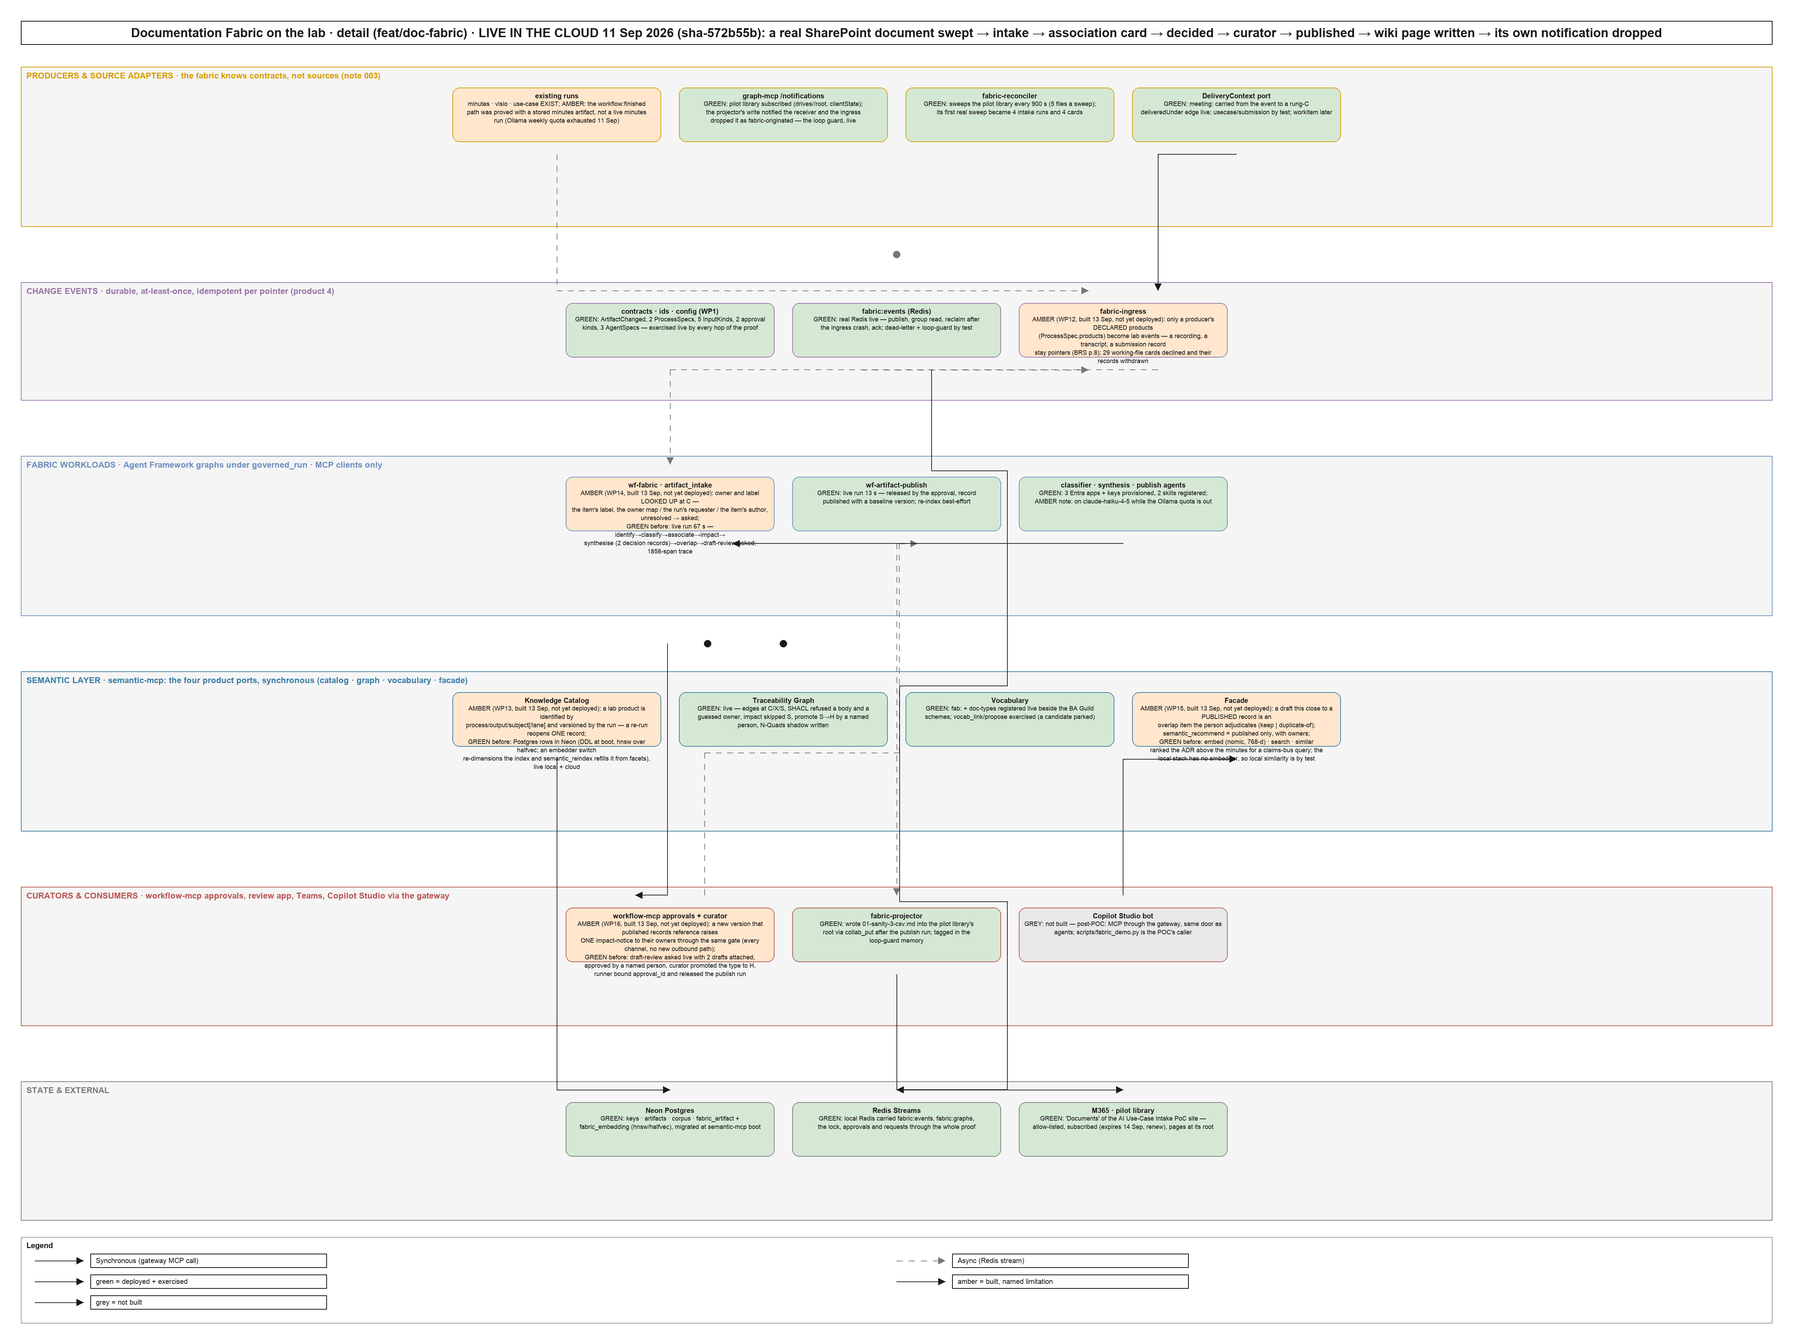
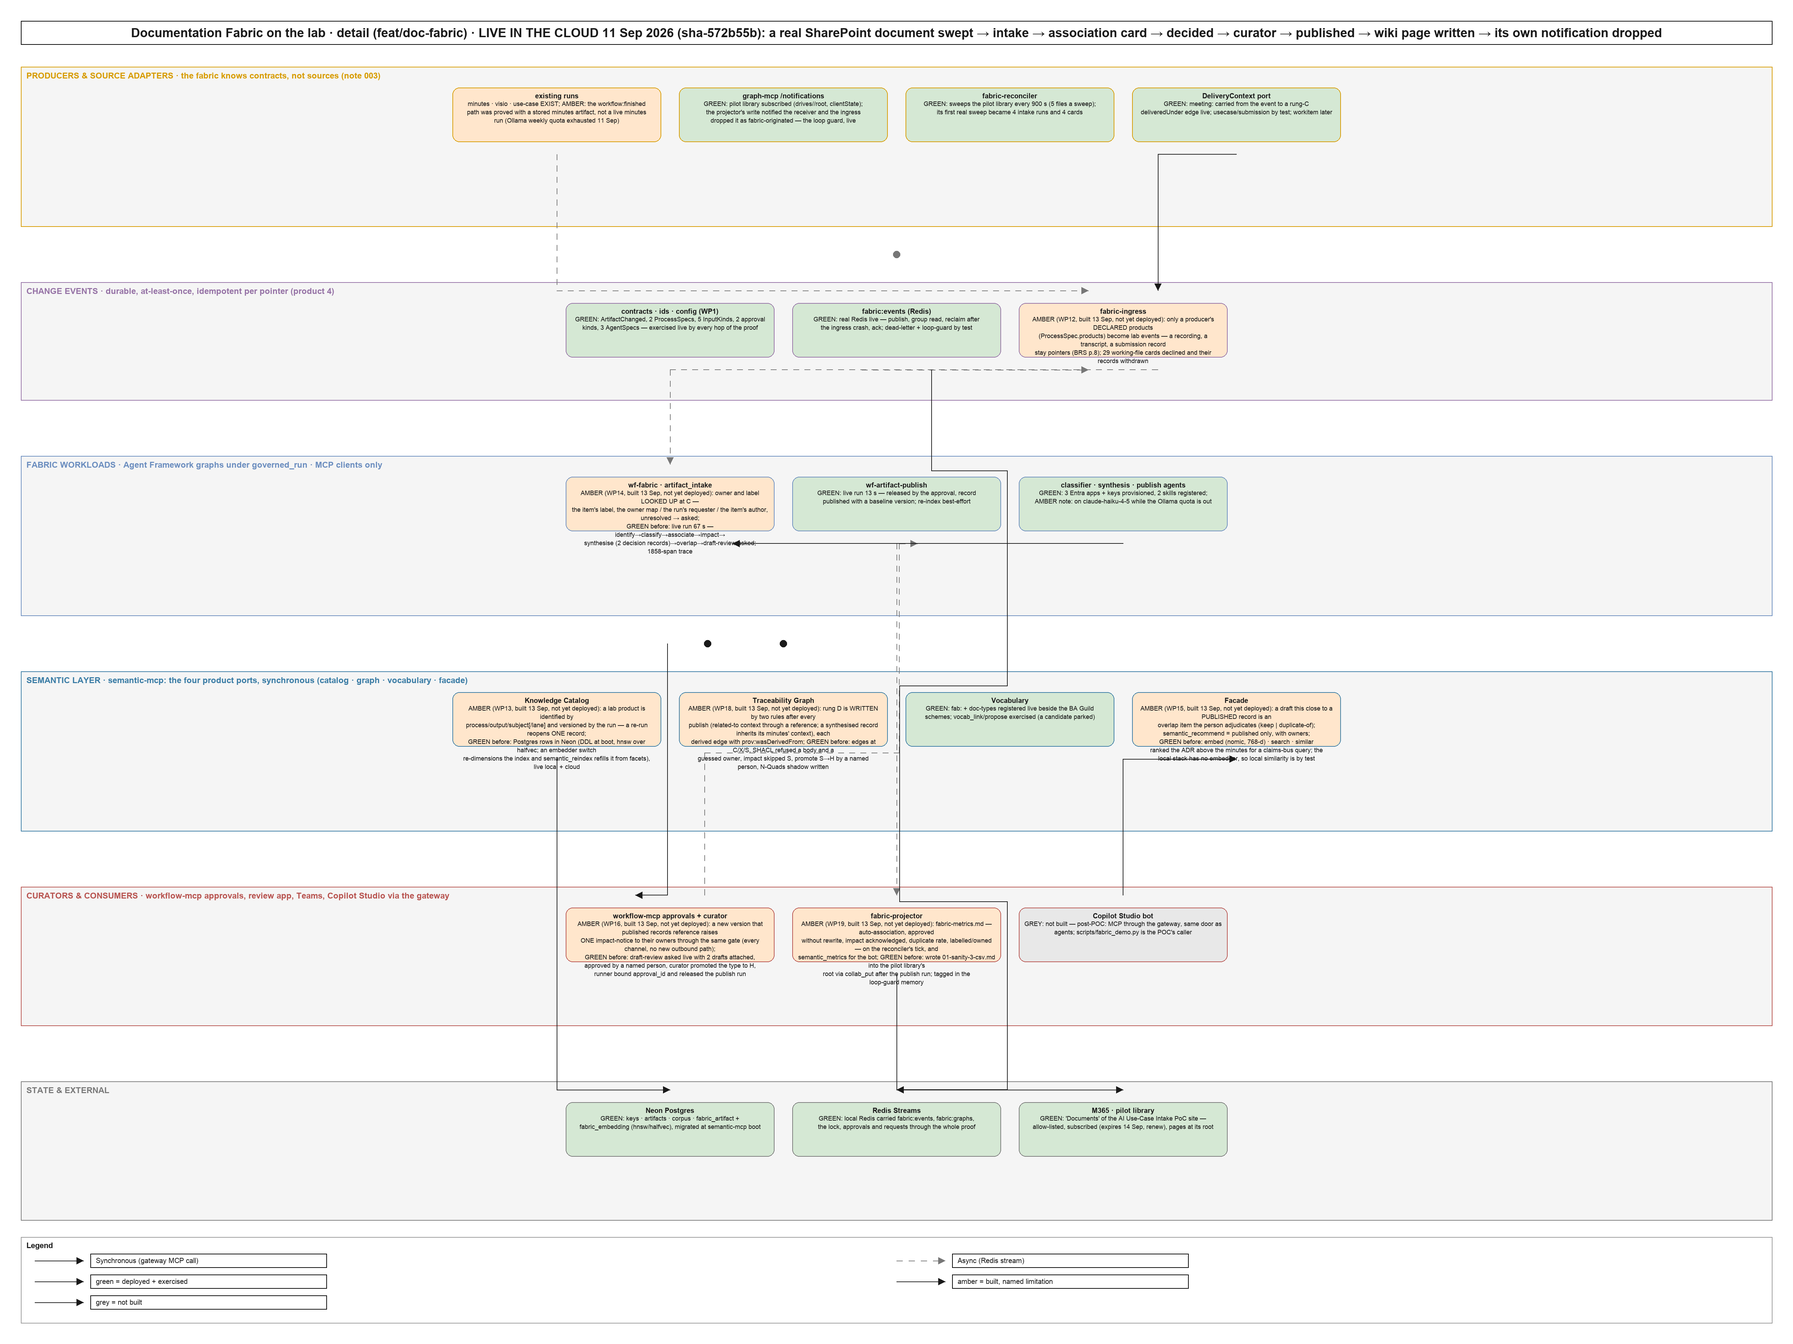
feat(fabric): published measurements — one page, one read tool (WP19)
BRS §3 / BR-8: auto-association ratio, drafts approved without rewrite, impact notices acknowledged (and the
unacknowledged changes still open), duplicate rate, labelled and owned share — each with its numerator and
denominator. `fabric_metrics.gather` reads SPARQL through the gateway and the decided approvals from Redis,
`compute` is pure, `render` is the page; the reconciler's tick writes `fabric-metrics.md` beside the record
pages (the projector's `write_page`, now shared) and remembers the numbers where `semantic_metrics` answers.

Claude-Session: https://claude.ai/code/session_01EtGcqgehQqtKSUnysVd3WA

Changed region(s): [[0.4368, 0.6515, 0.5616, 0.7446], [0.3744, 0.4964, 0.4992, 0.5895]]

diff --git a/src/lab/substrate/fabric_metrics.py b/src/lab/substrate/fabric_metrics.py
@@ -1,0 +1,125 @@
+"""Published measurements (BRS §3, BR-8) — numbers a person can read, computed from what the fabric already
+holds, never from content.
+
+  auto-association ratio   delivery contexts the pipeline established (rung C/X) vs those a person was asked for
+  approved without rewrite share of draft reviews approved as drafted (approve vs update/decline)
+  impact acknowledged      impact notices acknowledged vs declined
+  duplicates               duplicateOf edges per published record
+  labelled / owned share   records carrying a sensitivity label / an owner
+  unacknowledged changes   impact notices still open — published records whose source moved and nobody looked
+
+Three parts, in the shape every substrate consumer has: `gather` reads (SPARQL through the gateway, the approval
+hashes in Redis), `compute` is pure, `render` is the page. `tick` is what the reconciler calls on its cadence:
+the numbers go to `fabric:metrics` in Redis (what `semantic_metrics` answers with) and to one wiki page."""
+from __future__ import annotations
+
+import json
+from datetime import datetime, timezone
+
+from lab.platform.contracts import ApprovalKind, SemanticTools
+from lab.substrate import fabric_gateway
+from lab.substrate.fabric_projector import write_page
+
+__all__ = ["QUERIES", "KEY", "PAGE", "gather", "compute", "render", "tick"]
+
+KEY = "fabric:metrics"
+PAGE = "fabric-metrics.md"
+PREFIX = ("PREFIX fab: <urn:fabric:ont#> PREFIX rdf: <http://www.w3.org/1999/02/22-rdf-syntax-ns#> "
+          "PREFIX prov: <http://www.w3.org/ns/prov#> ")
+QUERIES: dict[str, str] = {
+    "states": PREFIX + "SELECT ?state (COUNT(DISTINCT ?a) AS ?n) WHERE { ?a a fab:Artifact ; fab:lifecycleState ?state } GROUP BY ?state",
+    "owned": PREFIX + "SELECT (COUNT(DISTINCT ?a) AS ?n) WHERE { ?a a fab:Artifact ; fab:ownedBy ?o }",
+    "labelled": PREFIX + "SELECT (COUNT(DISTINCT ?a) AS ?n) WHERE { ?a a fab:Artifact ; fab:sensitivityLabel ?l }",
+    "delivery": PREFIX + ("SELECT ?rung (COUNT(?aid) AS ?n) WHERE { ?aid a fab:Assertion ; fab:asserts ?st ; fab:rung ?rung . "
+                          "?st rdf:predicate fab:deliveredUnder . FILTER NOT EXISTS { ?aid prov:wasInvalidatedBy ?x } } GROUP BY ?rung"),
+    "duplicates": PREFIX + "SELECT (COUNT(*) AS ?n) WHERE { ?a fab:duplicateOf ?b }",
+}
+
+
+def _n(table: dict, col: str = "n") -> int:
+    rows = table.get("rows") or []
+    if not rows:
+        return 0
+    i = (table.get("columns") or [col]).index(col)
+    return int(float(rows[0][i] or 0))
+
+
+def _by(table: dict, key: str) -> dict[str, int]:
+    cols = table.get("columns") or []
+    ki, ni = cols.index(key), cols.index("n")
+    return {str(r[ki]).rsplit("#", 1)[-1].rsplit(":", 1)[-1]: int(float(r[ni] or 0)) for r in table.get("rows") or []}
+
+
+async def gather(*, call=None, client) -> dict:
+    """The raw facts: one SPARQL table per query (through the gateway, READ) and the decided approvals by kind
+    (the hashes this substrate already reaches). Counts only."""
+    go = call or fabric_gateway.call
+    tables = dict(zip(QUERIES, await go([(SemanticTools.query, {"sparql": q}) for q in QUERIES.values()])))
+    decisions: dict[str, dict[str, int]] = {}
+    for key in client.scan_iter(match="approvals:req:*"):
+        st = client.hgetall(key) or {}
+        kind = str(st.get("kind") or "")
+        if kind in {ApprovalKind.DRAFT_REVIEW, ApprovalKind.ASSOCIATION, ApprovalKind.IMPACT_NOTICE}:
+            d = decisions.setdefault(kind, {})
+            d[str(st.get("status") or "pending")] = d.get(str(st.get("status") or "pending"), 0) + 1
+    return {"tables": tables, "decisions": decisions}
+
+
+def _ratio(a: int, b: int) -> float | None:
+    return round(a / b, 3) if b else None
+
+
+def compute(facts: dict) -> dict:
+    """PURE. Every number with its numerator and denominator beside it, so a reader can weigh it."""
+    t, d = facts.get("tables") or {}, facts.get("decisions") or {}
+    states = _by(t.get("states") or {"columns": ["state", "n"], "rows": []}, "state")
+    total, published = sum(states.values()), states.get("published", 0)
+    delivery = _by(t.get("delivery") or {"columns": ["rung", "n"], "rows": []}, "rung")
+    auto, asked = delivery.get("C", 0) + delivery.get("X", 0), delivery.get("H", 0)
+    review = d.get(ApprovalKind.DRAFT_REVIEW, {})
+    approved, reworked = review.get("approve", 0), review.get("update", 0) + review.get("decline", 0)
+    notice = d.get(ApprovalKind.IMPACT_NOTICE, {})
+    dup = _n(t.get("duplicates") or {})
+    return {
+        "computed_at": datetime.now(timezone.utc).isoformat(timespec="seconds"),
+        "records": {"total": total, **states},
+        "auto_association_ratio": {"value": _ratio(auto, auto + asked), "auto": auto, "asked": asked},
+        "approved_without_rewrite": {"value": _ratio(approved, approved + reworked), "approved": approved, "reworked": reworked,
+                                     "open": review.get("pending", 0)},
+        "impact_acknowledged": {"value": _ratio(notice.get("approve", 0), notice.get("approve", 0) + notice.get("decline", 0)),
+                                "acknowledged": notice.get("approve", 0), "declined": notice.get("decline", 0),
+                                "unacknowledged_changes": notice.get("pending", 0)},
+        "duplicate_rate": {"value": _ratio(dup, published), "duplicates": dup, "published": published},
+        "labelled_share": {"value": _ratio(_n(t.get("labelled") or {}), total), "labelled": _n(t.get("labelled") or {}), "total": total},
+        "owned_share": {"value": _ratio(_n(t.get("owned") or {}), total), "owned": _n(t.get("owned") or {}), "total": total},
+    }
+
+
+def _pct(m: dict) -> str:
+    return "n/a" if m.get("value") is None else f"{m['value'] * 100:.0f} %"
+
+
+def render(m: dict) -> str:
+    r = m["records"]
+    return "\n".join([
+        "---", "title: Documentation Fabric — measurements", f"computed: {m['computed_at']}", "---", "",
+        "# Documentation Fabric — measurements", "",
+        f"*Computed {m['computed_at']} from the catalog, the graph and the review gate. Numbers, never content.*", "",
+        "| Measure | Value | Basis |", "|---|---|---|",
+        f"| Records | {r['total']} | " + ", ".join(f"{k} {v}" for k, v in r.items() if k != "total") + " |",
+        f"| Auto-association ratio | {_pct(m['auto_association_ratio'])} | {m['auto_association_ratio']['auto']} established by the pipeline, {m['auto_association_ratio']['asked']} asked of a person |",
+        f"| Drafts approved without rewrite | {_pct(m['approved_without_rewrite'])} | {m['approved_without_rewrite']['approved']} approved, {m['approved_without_rewrite']['reworked']} sent back or declined, {m['approved_without_rewrite']['open']} open |",
+        f"| Impact notices acknowledged | {_pct(m['impact_acknowledged'])} | {m['impact_acknowledged']['acknowledged']} acknowledged, {m['impact_acknowledged']['declined']} declined, {m['impact_acknowledged']['unacknowledged_changes']} unacknowledged changes |",
+        f"| Duplicate rate | {_pct(m['duplicate_rate'])} | {m['duplicate_rate']['duplicates']} duplicates over {m['duplicate_rate']['published']} published |",
+        f"| Labelled | {_pct(m['labelled_share'])} | {m['labelled_share']['labelled']} of {m['labelled_share']['total']} |",
+        f"| Owned | {_pct(m['owned_share'])} | {m['owned_share']['owned']} of {m['owned_share']['total']} |", "",
+    ])
+
+
+async def tick(*, folder: str, client, call=None) -> dict:
+    """Compute, remember (`fabric:metrics`), and publish the page. Returns the metrics."""
+    go = call or fabric_gateway.call
+    m = compute(await gather(call=go, client=client))
+    client.set(KEY, json.dumps(m))
+    await write_page(PAGE, render(m), folder=folder, call=go)
+    return m

diff --git a/tests/unit/substrate/test_fabric_metrics.py b/tests/unit/substrate/test_fabric_metrics.py
@@ -1,0 +1,67 @@
+"""Published measurements: every number has a known answer over a fixture, the page renders them, and a tick
+remembers them where the read tool looks and writes the page through the gateway."""
+import asyncio
+import json
+
+from fixtures.fakes import FakeRedis
+from lab.platform.contracts import CollabTools, SemanticTools
+from lab.substrate import fabric_metrics as M
+
+TABLES = {
+    "states": {"columns": ["state", "n"], "rows": [["urn:fabric:state:published", "4"], ["urn:fabric:state:pending", "6"]]},
+    "owned": {"columns": ["n"], "rows": [["7"]]},
+    "labelled": {"columns": ["n"], "rows": [["10"]]},
+    "delivery": {"columns": ["rung", "n"], "rows": [["C", "6"], ["X", "2"], ["H", "2"]]},
+    "duplicates": {"columns": ["n"], "rows": [["1"]]},
+}
+
+
+def _facts():
+    return {"tables": TABLES, "decisions": {"draft-review": {"approve": 3, "update": 1, "pending": 2},
+                                            "impact-notice": {"approve": 1, "pending": 1},
+                                            "association": {"approve": 2}}}
+
+
+def test_every_number_has_a_known_answer():
+    m = M.compute(_facts())
+    assert m["records"] == {"total": 10, "published": 4, "pending": 6}
+    assert m["auto_association_ratio"] == {"value": 0.8, "auto": 8, "asked": 2}
+    assert m["approved_without_rewrite"] == {"value": 0.75, "approved": 3, "reworked": 1, "open": 2}
+    assert m["impact_acknowledged"]["value"] == 1.0 and m["impact_acknowledged"]["unacknowledged_changes"] == 1
+    assert m["duplicate_rate"] == {"value": 0.25, "duplicates": 1, "published": 4}
+    assert m["labelled_share"]["value"] == 1.0 and m["owned_share"]["value"] == 0.7
+    empty = M.compute({"tables": {}, "decisions": {}})
+    assert empty["records"]["total"] == 0 and empty["auto_association_ratio"]["value"] is None
+
+
+def test_the_page_carries_every_measure_with_its_basis():
+    text = M.render(M.compute(_facts()))
+    assert "| Auto-association ratio | 80 % | 8 established" in text and "| Owned | 70 % | 7 of 10 |" in text
+    assert "| Duplicate rate | 25 %" in text and "n/a" not in text and text.startswith("---\ntitle:")
+
+
+def test_a_tick_gathers_through_the_gateway_remembers_and_publishes_the_page():
+    r = FakeRedis()
+    r.hset("approvals:req:apr-1", mapping={"kind": "draft-review", "status": "approve"})
+    r.hset("approvals:req:apr-2", mapping={"kind": "draft-review", "status": "pending"})
+    r.hset("approvals:req:apr-3", mapping={"kind": "speaker-mapping", "status": "approve"})   # not the fabric's
+    calls = []
+
+    async def call(cs):
+        calls.extend(cs)
+        out = []
+        for suffix, args in cs:
+            if suffix == SemanticTools.query:
+                name = next(k for k, q in M.QUERIES.items() if q == args["sparql"])
+                out.append(TABLES[name])
+            elif suffix == SemanticTools.store_spec:
+                out.append({"spec_ref": "art://m/fabric-metrics.md"})
+            elif suffix == CollabTools.put:
+                out.append({"handle": "collab://item/d/page", "name": args["name"]})
+        return out
+    m = asyncio.run(M.tick(folder="collab://item/d/root", client=r, call=call))
+    assert m["approved_without_rewrite"] == {"value": 1.0, "approved": 1, "reworked": 0, "open": 1}
+    assert json.loads(r.get(M.KEY))["records"]["total"] == 10
+    put = next(a for s, a in calls if s == CollabTools.put)
+    assert put == {"folder": "collab://item/d/root", "ref": "art://m/fabric-metrics.md", "name": "fabric-metrics.md"}
+    assert len([s for s, _ in calls if s == SemanticTools.query]) == len(M.QUERIES)

diff --git a/scripts/fabric_diagram.py b/scripts/fabric_diagram.py
@@ -48,12 +48,12 @@ def build() -> C4Diagram:
     d.component("agents", "z_work", "classifier · synthesis · publish agents", "GREEN: 3 Entra apps + keys provisioned, 2 skills registered;\nAMBER note: on claude-haiku-4-5 while the Ollama quota is out", fill=DONE)
     # semantic layer
     d.component("catalog", "z_sem", "Knowledge Catalog", "AMBER (WP13, built 13 Sep, not yet deployed): a lab product is identified by\nprocess/output/subject[/lane] and versioned by the run — a re-run reopens ONE record;\nGREEN before: Postgres rows in Neon (DDL at boot, hnsw over halfvec; an embedder switch\nre-dimensions the index and semantic_reindex refills it from facets), live local + cloud", fill=PART)
-    d.component("graph", "z_sem", "Traceability Graph", "GREEN: live — edges at C/X/S, SHACL refused a body and a\nguessed owner, impact skipped S, promote S→H by a named\nperson, N-Quads shadow written", fill=DONE)
+    d.component("graph", "z_sem", "Traceability Graph", "AMBER (WP18, built 13 Sep, not yet deployed): rung D is WRITTEN by two rules after every\npublish (related-to context through a reference; a synthesised record inherits its minutes\' context), each\nderived edge with prov:wasDerivedFrom; GREEN before: edges at C/X/S, SHACL refused a body and a\nguessed owner, impact skipped S, promote S→H by a named\nperson, N-Quads shadow written", fill=PART)
     d.component("vocab", "z_sem", "Vocabulary", "GREEN: fab: + doc-types registered live beside the BA Guild\nschemes; vocab_link/propose exercised (a candidate parked)", fill=DONE)
     d.component("facade", "z_sem", "Facade", "AMBER (WP15, built 13 Sep, not yet deployed): a draft this close to a PUBLISHED record is an\noverlap item the person adjudicates (keep | duplicate-of); semantic_recommend = published only, with owners;\nGREEN before: embed (nomic, 768-d) · search · similar\nranked the ADR above the minutes for a claims-bus query; the\nlocal stack has no embedder, so local similarity is by test", fill=PART)
     # gate & consumers
     d.component("approvals", "z_gate", "workflow-mcp approvals + curator", "AMBER (WP16, built 13 Sep, not yet deployed): a new version that published records reference raises\nONE impact-notice to their owners through the same gate (every channel, no new outbound path);\nGREEN before: draft-review asked live with 2 drafts attached,\napproved by a named person, curator promoted the type to H,\nrunner bound approval_id and released the publish run", fill=PART)
-    d.component("projector", "z_gate", "fabric-projector", "GREEN: wrote 01-sanity-3-csv.md into the pilot library's\nroot via collab_put after the publish run; tagged in the\nloop-guard memory", fill=DONE)
+    d.component("projector", "z_gate", "fabric-projector", "AMBER (WP19, built 13 Sep, not yet deployed): fabric-metrics.md — auto-association, approved\nwithout rewrite, impact acknowledged, duplicate rate, labelled/owned — on the reconciler\'s tick, and\nsemantic_metrics for the bot; GREEN before: wrote 01-sanity-3-csv.md into the pilot library's\nroot via collab_put after the publish run; tagged in the\nloop-guard memory", fill=PART)
     d.component("bot", "z_gate", "Copilot Studio bot", g("post-POC: MCP through the gateway, same door as\nagents; scripts/fabric_demo.py is the POC's caller"), fill=TODO)
     # state
     d.component("neon", "z_state", "Neon Postgres", "GREEN: keys · artifacts · corpus · fabric_artifact +\nfabric_embedding (hnsw/halfvec), migrated at semantic-mcp boot", fill=DONE)

diff --git a/src/lab/substrate/fabric_reconciler.py b/src/lab/substrate/fabric_reconciler.py
@@ -23,7 +23,7 @@ from lab.core import ids
 from lab.core.collab.model import ContentHandle
 from lab.platform import config, fabric_events, streams
 from lab.platform.contracts import ArtifactChanged, CollabTools, SemanticTools
-from lab.substrate import fabric_gateway
+from lab.substrate import fabric_gateway, fabric_metrics
 
 SERVICE = "fabric-reconciler"
 
@@ -132,13 +132,18 @@ def run_once(*, call=None, client=None) -> list[ArtifactChanged]:
             print(f"[reconciler] renewed {len(kept)} subscription(s): {[k['id'] for k in kept]}", flush=True)
     except Exception as e:                          # noqa: BLE001 — a renewal that fails is retried next tick
         print(f"[reconciler] renewal failed: {type(e).__name__}: {e}", flush=True)
+    out: list[ArtifactChanged] = []
     try:
         out = asyncio.run(sweep(call=call, client=r))
         print(f"[reconciler] swept: {len(out)} change(s) published", flush=True)
-        return out
     except Exception as e:                          # noqa: BLE001 — a sweep that fails runs again next tick
         print(f"[reconciler] sweep failed: {type(e).__name__}: {e}", flush=True)
-        return []
+    try:                                            # the measurements ride the same cadence (BR-8)
+        m = asyncio.run(fabric_metrics.tick(folder=config.FABRIC_WIKI_FOLDER, client=r, call=call))
+        print(f"[reconciler] measured: {m['records']['total']} record(s)", flush=True)
+    except Exception as e:                          # noqa: BLE001 — numbers that fail to compute are computed next tick
+        print(f"[reconciler] metrics failed: {type(e).__name__}: {e}", flush=True)
+    return out
 
 
 def _client():

diff --git a/src/lab/substrate/fabric_projector.py b/src/lab/substrate/fabric_projector.py
@@ -87,13 +87,18 @@ async def project(state: dict, *, folder: str, call=None) -> dict | None:
     if not row:
         raise LookupError(f"no catalog record {iri}")
     name = f"{slug(row.get('title') or iri.rsplit(':', 1)[-1])}.md"
-    text = page(row)
-    stored = (await go([(SemanticTools.store_spec, {"spec": {"text": text}, "name": name})]))[0]
+    return await write_page(name, page(row), folder=folder, call=go)
+
+
+async def write_page(name: str, text: str, *, folder: str, call) -> dict:
+    """ONE small Markdown page into the wiki folder, by reference: stored as a lab artifact, then `collab_put`
+    (which replaces a file of the same name). Shared by the record projection and the measurements page."""
+    stored = (await call([(SemanticTools.store_spec, {"spec": {"text": text}, "name": name})]))[0]
     ref = stored["spec_ref"] if isinstance(stored, dict) else json.loads(stored)["spec_ref"]
     if not folder:
         print(f"[projector] would write {name} ({len(text)} chars) — FABRIC_WIKI_FOLDER unset", flush=True)
         return {"ref": ref, "handle": "", "name": name}
-    put = (await go([(CollabTools.put, {"folder": folder, "ref": ref, "name": name})]))[0]
+    put = (await call([(CollabTools.put, {"folder": folder, "ref": ref, "name": name})]))[0]
     return {"ref": ref, "handle": str(put.get("handle") or ""), "name": str(put.get("name") or name),
             "version": str(put.get("modified") or put.get("version") or "")}
 

diff --git a/deploy/railway.py b/deploy/railway.py
@@ -384,6 +384,7 @@ ROLE_ENV = {
     ],
     "fabric-reconciler": [                         # src/lab/substrate/fabric_reconciler.py — the timer sweep of the allow-listed drives
         "REDIS_URL", "GATEWAY_URL", "FABRIC_CURATOR_KEY", "FABRIC_EVENTS", "FABRIC_ALLOWLIST", "FABRIC_SWEEP_*",
+        "FABRIC_WIKI_FOLDER",   # the measurements page (fabric_metrics.tick) lands beside the record pages
         _OTLP,
     ],
     "meeting-notifier": [       # src/lab/substrate/meeting_notifier.py + lab.platform.workflows — Redis ONLY
